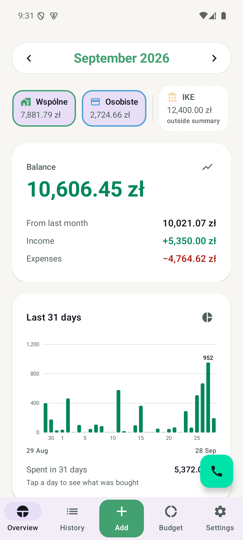
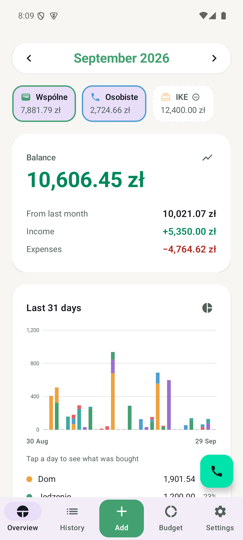
Say which account a row is on by counting, not by guessing
The ledger marked a row whenever its account was not the first one in
sortOrder. Nobody has ever dragged these into an order, so sortOrder is 0
on all of them and the tie fell to whichever name sorted first
alphabetically — a household with 1702 rows on Portfel and 42 on Cash was
told, on nearly every row, that it was not on Cash. Which account the
money actually goes through is a fact sitting in the table, so count it.

The pill that survives now carries its account's own colour, the way the
icon to its left carries the category's: a month with two other accounts
in it stops being a column of identical grey tags read one at a time.

Also here, because they are all the same complaint about a screen saying
the wrong thing twice or saying nothing:

- The 31-day face stated its total in a labelled row of its own and then
  again a few rows below, at the foot of the legend. Two answers to one
  question read as two questions. The legend keeps it.
- A remembered account selection outlived the account it named. Delete
  that account and every figure on the summary fell to 0,00 zł with no
  button on the strip looking selected — nothing on screen to tap to
  undo it. Ids nothing answers to are dropped, which means all accounts.
- Choosing a category rippled a grey rectangle around a round icon,
  announcing the shape of the touch target. The answer already arrives
  instantly; now the categories not chosen fade back, so the one that
[…]

diff --git a/android/app/src/main/java/com/monyx/ui/transactions/TransactionsScreen.kt b/android/app/src/main/java/com/monyx/ui/transactions/TransactionsScreen.kt
@@ -58,6 +58,7 @@ import androidx.compose.ui.Alignment
 import androidx.compose.ui.Modifier
 import androidx.compose.ui.draw.alpha
 import androidx.compose.ui.draw.clip
+import androidx.compose.ui.graphics.Color
 import androidx.compose.ui.platform.LocalContext
 import androidx.compose.ui.res.pluralStringResource
 import androidx.compose.ui.res.stringResource
@@ -134,14 +135,20 @@ fun TransactionsScreen(
     val totals by viewModel.filteredTotals.collectAsStateWithLifecycle()
     val accounts by viewModel.accounts.collectAsStateWithLifecycle()
     val transactions by viewModel.transactions.collectAsStateWithLifecycle()
+    val usualAccountId by viewModel.usualAccountId.collectAsStateWithLifecycle()
     // What a row is compared against before it is marked as coming from
-    // somewhere else. Normally the keypad's starting account — the household's
-    // first open one, in their own order, which is the row AddViewModel picks
-    // the same way. Under an account filter it is that account instead, so the
-    // mark disappears: every row matches, the chip overhead already names it,
-    // and a pill on all of them would be the same word forty times down a list.
-    val defaultAccountId = remember(accounts, accountId) {
-        accountId ?: accounts.firstOrNull { it.archived == 0 }?.id
+    // somewhere else. Normally the account most of the ledger is on. Under an
+    // account filter it is that account instead, so the mark disappears: every
+    // row matches, the chip overhead already names it, and a pill on all of them
+    // would be the same word forty times down a list.
+    val defaultAccountId = remember(usualAccountId, accountId) {
+        accountId ?: usualAccountId
+    }
+    // Each account's own colour, for the pill on a row from elsewhere. Resolved
+    // once for the list rather than per row: Palette hashes when an account has
+    // never been given a colour, and a long month is hundreds of rows.
+    val accountColors = remember(accounts) {
+        accounts.associate { it.id to Palette.colorFor(it.color, it.id) }
     }
     val accountActivity by viewModel.accountActivity.collectAsStateWithLifecycle()
     // Pinned to a finished account, which only Settings can do. The filter then
@@ -444,6 +451,7 @@ fun TransactionsScreen(
                                 items = dayItems,
                                 plannedIds = plannedIds,
                                 defaultAccountId = defaultAccountId,
+                                accountColors = accountColors,
                                 // The day that was asked for, marked. Scrolling
                                 // to it is not enough on its own: near the end of
                                 // the list there is nothing left to scroll, so
@@ -616,6 +624,7 @@ private fun DayGroup(
     items: List<TransactionListItem>,
     plannedIds: Set<String>,
     defaultAccountId: String?,
+    accountColors: Map<String, Color>,
     highlighted: Boolean = false,
     onRowClick: (TransactionListItem) -> Unit,
 ) {
@@ -680,6 +689,7 @@ private fun DayGroup(
                             item = item,
                             planned = item.id in plannedIds,
                             defaultAccountId = defaultAccountId,
+                            accountColor = item.accountId?.let { accountColors[it] },
                             onClick = { onRowClick(item) },
                         )
                         if (index != items.lastIndex) {
@@ -700,11 +710,13 @@ private fun TransactionRow(
     item: TransactionListItem,
     planned: Boolean = false,
     /**
-     * The account the keypad starts on — the household's first one. Rows on any
-     * other account say so; rows on this one do not, or the mark would be on
-     * nearly every row and would mark nothing.
+     * The account most of the ledger is on. Rows on any other account say so;
+     * rows on this one do not, or the mark would be on nearly every row and
+     * would mark nothing.
      */
     defaultAccountId: String? = null,
+    /** This row's account's own colour, for the pill. Never resolved here. */
+    accountColor: Color? = null,
     onClick: () -> Unit,
 ) {
     val isTransfer = item.kind == "transfer"
@@ -799,14 +811,23 @@ private fun TransactionRow(
             if (elsewhere || !item.note.isNullOrBlank()) {
                 Row(verticalAlignment = Alignment.CenterVertically) {
                     if (elsewhere) {
+                        // In the account's own colour, the way the icon left of
+                        // the row carries the category's: the pill then says
+                        // WHICH other account at a glance, and a month with two
+                        // of them in it stops being a column of identical grey
+                        // tags you have to read one at a time. Tinted background,
+                        // saturated text — the same recipe as the category
+                        // circle, for the same reason: a solid fill this small
+                        // would shout louder than the amount.
+                        val tint = accountColor ?: MaterialTheme.colorScheme.onSurfaceVariant
                         Text(
                             text = item.accountName.orEmpty(),
                             style = MaterialTheme.typography.labelSmall,
-                            color = MaterialTheme.colorScheme.onSurfaceVariant,
+                            color = tint,
                             maxLines = 1,
                             modifier = Modifier
                                 .clip(RoundedCornerShape(6.dp))
-                                .background(MaterialTheme.colorScheme.surfaceVariant)
+                                .background(tint.copy(alpha = 0.15f))
                                 .padding(horizontal = 6.dp, vertical = 1.dp),
                         )
                         if (!item.note.isNullOrBlank()) Spacer(Modifier.width(6.dp))

diff --git a/android/app/src/main/java/com/monyx/ui/add/EntryControls.kt b/android/app/src/main/java/com/monyx/ui/add/EntryControls.kt
@@ -1,8 +1,10 @@
 package com.monyx.ui.add
 
+import androidx.compose.animation.core.animateFloatAsState
 import androidx.compose.foundation.background
 import androidx.compose.foundation.border
 import androidx.compose.foundation.clickable
+import androidx.compose.foundation.interaction.MutableInteractionSource
 import androidx.compose.foundation.layout.Arrangement
 import androidx.compose.foundation.layout.Box
 import androidx.compose.foundation.layout.Column
@@ -39,9 +41,11 @@ import androidx.compose.material3.Text
 import androidx.compose.material3.TextButton
 import androidx.compose.material3.rememberDatePickerState
 import androidx.compose.runtime.Composable
+import androidx.compose.runtime.getValue
 import androidx.compose.runtime.remember
 import androidx.compose.ui.Alignment
 import androidx.compose.ui.Modifier
+import androidx.compose.ui.draw.alpha
 import androidx.compose.ui.draw.clip
 import androidx.compose.ui.graphics.Color
 import androidx.compose.ui.graphics.vector.ImageVector
@@ -261,6 +265,9 @@ internal fun CategoryGrid(
                 // itself is one of those children. A ring rather than a fill:
                 // it is not the answer, it is where the answer came from.
                 open = category.id == openRootId && category.id != selectedId,
+                // Faded once the choice is made, unless this IS the choice or
+                // the family it came from. See [CategoryCell].
+                dimmed = openRootId != null && category.id != openRootId,
                 onClick = { onSelect(category.id) },
             )
         }
@@ -274,6 +281,11 @@ internal fun CategoryGrid(
                     color = colorOf(category),
                     selected = category.id == selectedId,
                     open = false,
+                    // A subcategory only fades once one of its siblings has been
+                    // picked. Until then the parent is the choice and the row
+                    // below it is the open question — fading it would be the
+                    // screen dimming the very thing it is asking about.
+                    dimmed = selectedId != openRootId && category.id != selectedId,
                     // Tapping the lit one goes back to the parent. Optional has
                     // to be undoable or it is a second required step with a
                     // softer label.
@@ -321,15 +333,43 @@ private fun CategoryCell(
     color: Color,
     selected: Boolean,
     open: Boolean,
+    /**
+     * Something else has been chosen, so this one steps back.
+     *
+     * The grid is four columns of saturated circles and the chosen one has to
+     * win against all of them at once; a ring on one cell is a small mark on a
+     * loud page. Fading the rest is the other half of the same sentence, and it
+     * leaves them perfectly legible — this is a step back, not a disabling, and
+     * every one of them is still one tap away.
+     */
+    dimmed: Boolean = false,
     onClick: () -> Unit,
 ) {
+    // Not quite half: at 0.5 the unchosen names on a light background start to
+    // read as greyed-out rather than as quiet, and nothing here is unavailable.
+    val fade by animateFloatAsState(if (dimmed) 0.45f else 1f, label = "categoryFade")
     // fillMaxWidth, or the cell is only as wide as its widest child and sits at
     // the start of the grid slot: "Dom" made a narrow column with the icon
     // centred over three letters, "Zakupy spożywcze" made a column the full
     // width of the slot, and the icons in one row stopped lining up.
     Column(
         horizontalAlignment = Alignment.CenterHorizontally,
-        modifier = Modifier.fillMaxWidth().clickable(onClick = onClick),
+        modifier = Modifier
+            .fillMaxWidth()
+            .alpha(fade)
+            // No ripple. The clickable covers the whole cell — 56dp of circle
+            // and two lines of label — so the default indication was a grey
+            // rectangle around a round icon, announcing the shape of the touch
+            // target rather than the thing being chosen. The answer arrives
+            // instantly anyway: the circle fills, the ring appears and every
+            // other cell fades. Bounding the ripple to the circle instead would
+            // mean moving the clickable onto it and losing the label as a
+            // target, which is the half of the cell a thumb actually lands on.
+            .clickable(
+                interactionSource = remember { MutableInteractionSource() },
+                indication = null,
+                onClick = onClick,
+            ),
     ) {
         // The ring sits OUTSIDE the circle, with daylight between the two.
         // Drawn on the circle's own edge it was invisible on the one cell that

diff --git a/android/app/src/main/java/com/monyx/ui/overview/OverviewScreen.kt b/android/app/src/main/java/com/monyx/ui/overview/OverviewScreen.kt
@@ -615,13 +615,12 @@ private fun BreakdownCard(
 /**
  * The third face: a month of days, and what the whole window came to.
  *
- * The total under the chart is the one figure the bars cannot show. Thirty-one
- * bars say which day was expensive and say nothing about the month; a household
- * reading this face is usually asking both, and the second question is one line
- * of text rather than another card.
- *
- * No total while nothing has been spent: the chart already says so in words, and
- * "0,00 zł" under it would be a second answer to a question already answered.
+ * The window's total is stated once, at the foot of the legend, where every other
+ * face on this card states its own. It used to be stated twice — a labelled row
+ * of its own between the chart and the legend, and then the legend's closing line
+ * a few rows further down saying the identical figure. Two answers to one
+ * question read as two questions, and the eye stops to check whether the numbers
+ * agree. So the row is gone and the legend keeps it.
  */
 @Composable
 private fun DailyFace(daily: DailySpend, onDayClick: (String) -> Unit) {
@@ -639,20 +638,6 @@ private fun DailyFace(daily: DailySpend, onDayClick: (String) -> Unit) {
     Spacer(modifier = Modifier.height(6.dp))
     DailySpendAxis(daily)
     Spacer(modifier = Modifier.height(14.dp))
-    Row(modifier = Modifier.fillMaxWidth(), verticalAlignment = Alignment.CenterVertically) {
-        Text(
-            text = stringResource(R.string.overview_days_total),
-            style = MaterialTheme.typography.bodyMedium,
-            color = MaterialTheme.colorScheme.onSurfaceVariant,
-            modifier = Modifier.weight(1f),
-        )
-        Text(
-            text = Money.formatWithCurrency(daily.totalMinor),
-            style = MaterialTheme.typography.bodyMedium.copy(fontFeatureSettings = "tnum"),
-            fontWeight = FontWeight.SemiBold,
-        )
-    }
-    Spacer(modifier = Modifier.height(4.dp))
     Text(
         text = stringResource(R.string.overview_days_hint),
         style = MaterialTheme.typography.bodySmall,

diff --git a/android/app/src/main/java/com/monyx/data/Daos.kt b/android/app/src/main/java/com/monyx/data/Daos.kt
@@ -373,6 +373,33 @@ interface MonyxDao {
     fun activeAccounts(): Flow<List<AccountEntity>>
 
     /**
+     * The open account the ledger is mostly on — the one a row does NOT need to
+     * name, because it is what the reader already assumes.
+     *
+     * Counted, not configured. The screen used to take the first account in
+     * sortOrder as the usual one, and sortOrder is 0 on every account nobody has
+     * ever dragged, so the tie fell to whichever name sorted first: a household
+     * with 1702 rows on Portfel and 42 on Cash was told, on nearly every row,
+     * that it was not on Cash. Which account the money actually goes through is
+     * a fact sitting right there in the table.
+     *
+     * Archived accounts cannot win it. A finished holiday account may well hold
+     * more rows than the current account does, and "unusual" would then mean
+     * "this year".
+     */
+    @Query(
+        """
+        SELECT a.id FROM accounts a
+        JOIN transactions t ON t.accountId = a.id AND t.deleted = 0
+        WHERE a.deleted = 0 AND a.archived = 0
+        GROUP BY a.id
+        ORDER BY COUNT(t.id) DESC, a.sortOrder, a.name
+        LIMIT 1
+        """,
+    )
+    fun busiestAccountId(): Flow<String?>
+
+    /**
      * Oldest first. Who joined the household when is a fact about the household;
      * alphabetical order was a fact about nothing, and it reshuffled the list
      * every time somebody was renamed.

diff --git a/android/app/src/main/java/com/monyx/ui/overview/OverviewViewModel.kt b/android/app/src/main/java/com/monyx/ui/overview/OverviewViewModel.kt
@@ -242,7 +242,17 @@ class OverviewViewModel(
      * the screen. Every account button is simply drawn selected while this is
      * empty. See [toggleAccount] for what a tap does then.
      */
-    private val selectedAccounts: StateFlow<Set<String>> = chartPreferences.selectedAccounts
+    private val selectedAccounts: StateFlow<Set<String>> = combine(
+        chartPreferences.selectedAccounts,
+        repository.accounts(),
+    ) { stored, accounts ->
+        // Only ids an account still answers to. A remembered selection outlives
+        // the account it names — delete that account and the stored id filters
+        // every figure on the screen down to 0,00 zł while no button on the
+        // strip looks selected, so there is nothing on screen to tap to undo it.
+        // Dropping it leaves an empty set, which already means every account.
+        stored.intersect(accounts.mapTo(HashSet()) { it.id })
+    }
         // Eagerly, not WhileSubscribed: this is the filter every figure on the
         // screen is computed under, and a value that resets to "all accounts"
         // while nothing is collecting would be read back as a deliberate choice

diff --git a/android/app/src/main/java/com/monyx/ui/transactions/TransactionsViewModel.kt b/android/app/src/main/java/com/monyx/ui/transactions/TransactionsViewModel.kt
@@ -67,6 +67,17 @@ class TransactionsViewModel(
         .stateIn(viewModelScope, SharingStarted.WhileSubscribed(5_000), emptyList())
 
     /**
+     * The account a row is compared against before it is marked as coming from
+     * somewhere else — the one most of the ledger is on.
+     *
+     * Null until the query lands, and null on an empty ledger. No mark on any
+     * row is the right answer to both: on a ledger with nothing in it there is
+     * no "usual" account to be unusual against.
+     */
+    val usualAccountId: StateFlow<String?> = repository.busiestAccountId()
+        .stateIn(viewModelScope, SharingStarted.WhileSubscribed(5_000), null)
+
+    /**
      * First and last day on each account, keyed by id.
      *
      * Only read for the account the filter is pinned to, and only to say how far

diff --git a/android/app/src/main/java/com/monyx/data/Repository.kt b/android/app/src/main/java/com/monyx/data/Repository.kt
@@ -18,6 +18,9 @@ class MonyxRepository(private val dao: MonyxDao) {
     fun incomeCategories() = dao.categoriesOfKind("income")
     fun accounts() = dao.accounts()
     fun activeAccounts() = dao.activeAccounts()
+
+    /** The account most of the ledger is on. See [MonyxDao.busiestAccountId]. */
+    fun busiestAccountId() = dao.busiestAccountId()
     fun members() = dao.members()
     fun accountBalances() = dao.accountBalances()
 

diff --git a/README.md b/README.md
@@ -16,10 +16,10 @@
   <tr>
     <td align="center" width="14%"><img src="docs/screenshots/overview.png" alt="The month's income, spending and the difference between them, with account filters and a category breakdown" width="100%"></td>
     <td align="center" width="14%"><img src="docs/screenshots/trends.png" alt="Twelve months of spending as stacked bars by category, the budget as a red line over them, and a switch between a normal month and the selected one" width="100%"></td>
-    <td align="center" width="14%"><img src="docs/screenshots/days.png" alt="One bar per day for the last thirty-one days, with the costliest day labelled, tappable to open that day in the ledger" width="100%"></td>
+    <td align="center" width="14%"><img src="docs/screenshots/days.png" alt="One bar per day for the last thirty-one days, each stacked in its categories' colours, with the same category list underneath and a tap opening that day" width="100%"></td>
     <td align="center" width="14%"><img src="docs/screenshots/add.png" alt="Adding an expense on the built-in keypad" width="100%"></td>
-    <td align="center" width="14%"><img src="docs/screenshots/history.png" alt="Transaction history with search, and filters by account, category and subcategory" width="100%"></td>
-    <td align="center" width="14%"><img src="docs/screenshots/budget.png" alt="Monthly plan and per-category budgets, with a bar that shows how far past a limit the spending went" width="100%"></td>
+    <td align="center" width="14%"><img src="docs/screenshots/history.png" alt="Transaction history with search, filters by account, category and subcategory, and rows from an unusual account marked with that account's name in its own colour" width="100%"></td>
+    <td align="center" width="14%"><img src="docs/screenshots/budget.png" alt="Monthly plan and per-category budgets, with a bar that shows how far past a limit the spending went, and a limit that applies to the month being edited" width="100%"></td>
     <td align="center" width="14%"><img src="docs/screenshots/settings.png" alt="Accounts grouped by whether they count towards the summary, and categories, in settings" width="100%"></td>
   </tr>
   <tr>
@@ -40,10 +40,12 @@ with the new row on screen.
 - **Summary** — what the chosen month earned, spent, and the difference between
   them, filtered by account. Tapping it turns the card over to show the last
   thirty days as a line and what is actually in the accounts, which is a
-  position rather than a month. The breakdown card has two faces as well: this
-  month as a pie, or the last twelve months as stacked bars by category, with
-  the budget drawn over them as a red line so a month that went over is one you
-  can see. Tapping a bar moves the whole screen to that month. The legend gives
+  position rather than a month. The breakdown card has three faces: this month as
+  a pie, the last twelve months as stacked bars by category with the budget drawn
+  over them as a red line so a month that went over is one you can see, or the
+  last thirty-one days a day at a time. Tapping a bar moves the whole screen to
+  that month; tapping a day opens what was bought on it, and the ledger for that
+  day is one more tap from there. The legend gives
   each category's monthly average — over the months the ledger actually covers —
   or that one month's spending, whichever the card is set to — one switch, shared
   by both faces and remembered, and the legend re-sorts itself to match. The eye at the end of a row hides
@@ -52,13 +54,15 @@ with the new row on screen.
 - **Add** — a keypad that is also a calculator, a note, any date including the
   future, and *Make it repeat* to turn the row being typed into a repeating rule.
 - **History** — the month, searchable, filtered by account, category and then
-  subcategory; pick a category and the rows are totalled above them, so "how much
+  subcategory, with any row that is not on the account the household mostly uses
+  carrying that account's name in its own colour; pick a category and the rows are totalled above them, so "how much
   went on coffee" is a figure rather than an addition. Pulled down to sync. Today and
   yesterday are labelled as such, and *Planned* shows
   what the repeating rules are about to write.
-- **Budget** — what there is to spend this month, limits on main categories that
-  carry forward until changed, and a warning before a limit is passed rather than
-  after. A limit of zero is a limit: it means nothing may go here, which is not
+- **Budget** — what there is to spend this month, limits on main categories, and
+  a warning before a limit is passed rather than after. A limit applies to the
+  month you set it in and carries forward from there; changing it later changes
+  that month alone, unless you tick the box that carries the new figure on. A limit of zero is a limit: it means nothing may go here, which is not
   the same as having set none.
 - **Settings** — accounts, categories (two levels, dragged into order), repeating
   rules, language, backup health, the update check and what every release
